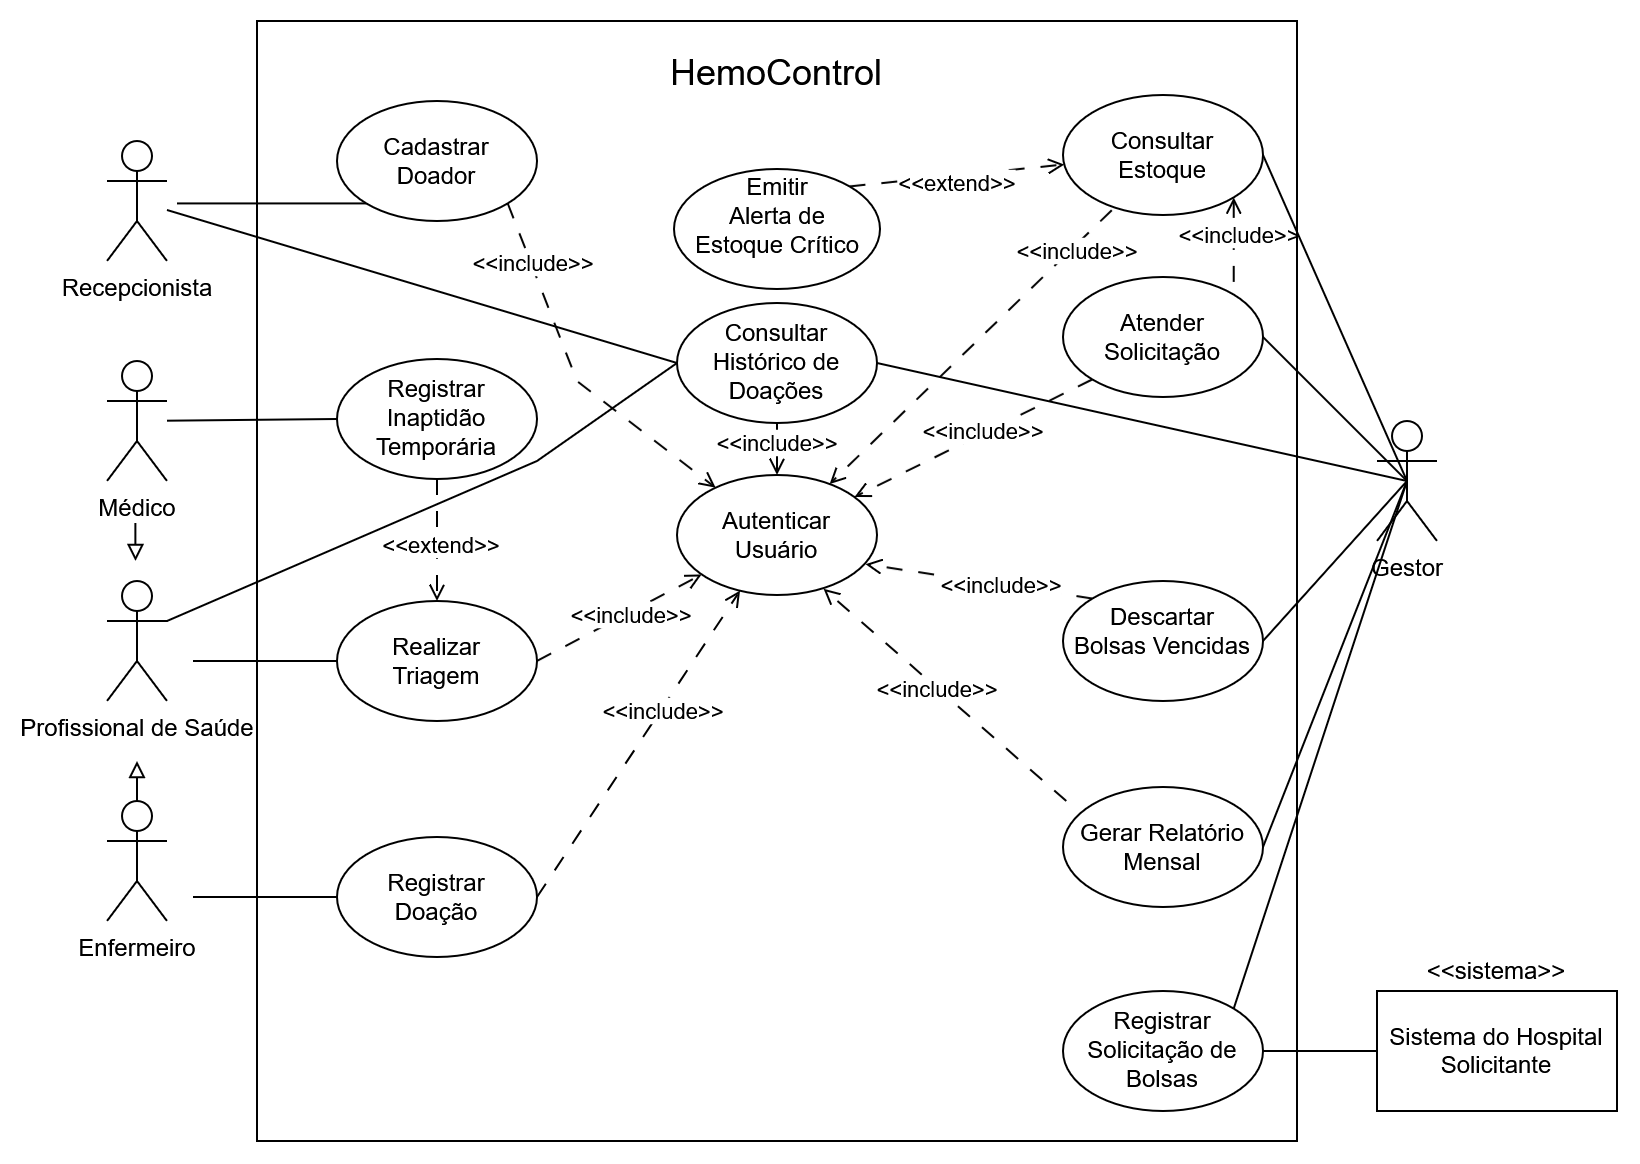
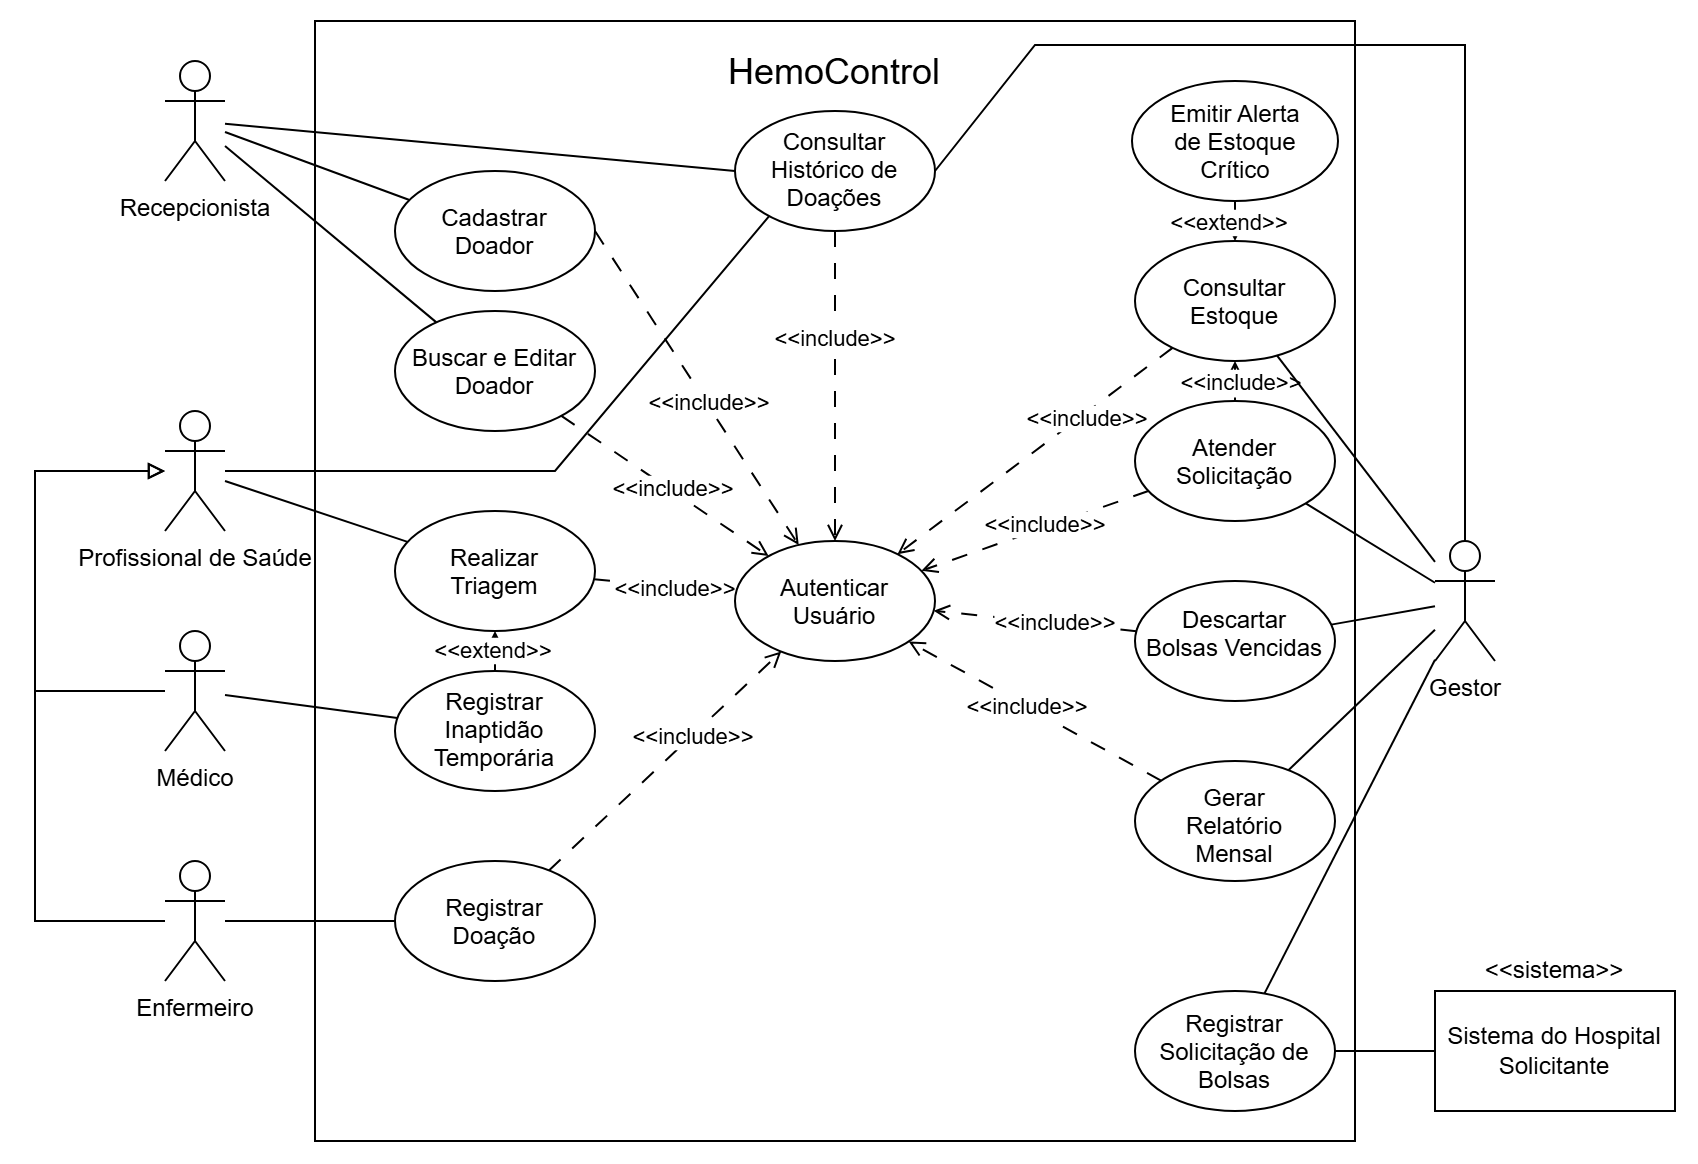
docs: adiciona RF-13 e RN-08 de edição de doador

diff --git a/docs/requisitos.md b/docs/requisitos.md
@@ -52,6 +52,10 @@ Documentação no padrão de linguagem estruturada apresentado na Aula 2: identi
 **Nome:** Consultar histórico de doações
 **Descrição:** O sistema deve permitir que qualquer usuário autenticado consulte, pelo CPF, o histórico de doações de um doador, com data, volume, código da bolsa e situação de cada doação, além da data a partir da qual o doador pode doar novamente.
 
+### RF-13
+**Nome:** Buscar e editar doador
+**Descrição:** O sistema deve permitir que o recepcionista busque doadores por parte do nome ou do CPF e corrija os dados cadastrais (nome, data de nascimento, sexo, tipo sanguíneo, telefone e consentimento do responsável). O CPF não pode ser alterado.
+
 ## Requisitos Não Funcionais (RNF)
 
 ### RNF-01
@@ -107,3 +111,7 @@ Documentação no padrão de linguagem estruturada apresentado na Aula 2: identi
 ### RN-07
 **Nome:** Volume da doação
 **Descrição:** O volume coletado deve estar entre 300 mL e 495 mL (450 mL ± 45 mL; bolsas abaixo de 300 mL são desprezadas) e não pode ultrapassar 8 mL por quilo de peso para mulheres ou 9 mL por quilo de peso para homens, considerando o peso medido na triagem.
+
+### RN-08
+**Nome:** Correção de sexo e tipo sanguíneo
+**Descrição:** O sexo e o tipo sanguíneo de um doador só podem ser corrigidos enquanto ele não tiver doações registradas, porque definem o intervalo entre doações (RN-03) e o tipo das bolsas já geradas.

diff --git a/README.md b/README.md
@@ -64,7 +64,7 @@ Todas usam a senha `hemo123`. Cada perfil só acessa as funções que o diagrama
 
 | Usuário | Perfil | Pode fazer |
 |---|---|---|
-| `recepcao` | Recepcionista | Cadastrar doador |
+| `recepcao` | Recepcionista | Cadastrar, buscar e editar doadores |
 | `medico` | Médico | Realizar triagem e registrar inaptidão temporária |
 | `enfermeiro` | Enfermeiro | Realizar triagem e registrar doação (inclusive coleta interrompida) |
 | `gestor` | Gestor | Consultar estoque, registrar e atender solicitações, descartar bolsas vencidas e gerar relatório mensal |
@@ -135,6 +135,7 @@ Em desenvolvimento. Implementação inicial focada no fluxo principal do banco d
 - [x] Autenticação por perfil com senha em hash (RF-01, RNF-02)
 - [x] Tema claro e escuro, salvo por usuário e por navegador (RNF-06)
 - [x] Cadastro de doadores (RF-02, RN-01)
+- [x] Busca e edição de doadores (RF-13, RN-08)
 - [x] Triagem com critérios de aptidão (RF-03, RN-02, RN-03, RN-06)
 - [x] Registro de doação e geração de bolsa, com limite de volume por peso (RF-04, RN-04, RN-05, RN-07)
 - [x] Consulta de estoque com gráfico, alerta de estoque crítico e de bolsas perto de vencer (RF-05, RF-06)

diff --git a/docs/diagrama-de-classes.md b/docs/diagrama-de-classes.md
@@ -63,6 +63,7 @@ Recepcionista
 (sem atributos próprios)
 -----------------------------------
 + cadastrarDoador(doador: Doador): void
++ editarDoador(atual: Doador, novosDados: Doador, possuiDoacoes: boolean): Doador
 ```
 
 ```
@@ -291,6 +292,7 @@ A multiplicidade fica ao lado da classe a que se refere, como no exemplo `Client
 | RN-05 (triagem obrigatória) | associação Triagem 1 → 0..1 Doacao |
 | RN-07 (volume da doação) | `Doacao.VOLUME_MINIMO_ML`, `Doacao.VOLUME_MAXIMO_ML` e `MedicaoClinica.calcularVolumeMaximo()` |
 | RN-06 (critérios clínicos) | `MedicaoClinica.estaDentroDosLimites()` |
+| RF-13 e RN-08 (editar doador) | `Recepcionista.editarDoador()` |
 | RF-05 (bolsas perto de vencer) | `Estoque.DIAS_ALERTA_VENCIMENTO` e `Estoque.listarProximasDoVencimento()` |
 | RF-06 (alerta de estoque) | `Estoque.LIMITE_CRITICO` e `estaCritico()` |
 | RF-07 (solicitação manual ou integrada) | `Solicitacao.origemManual` |
